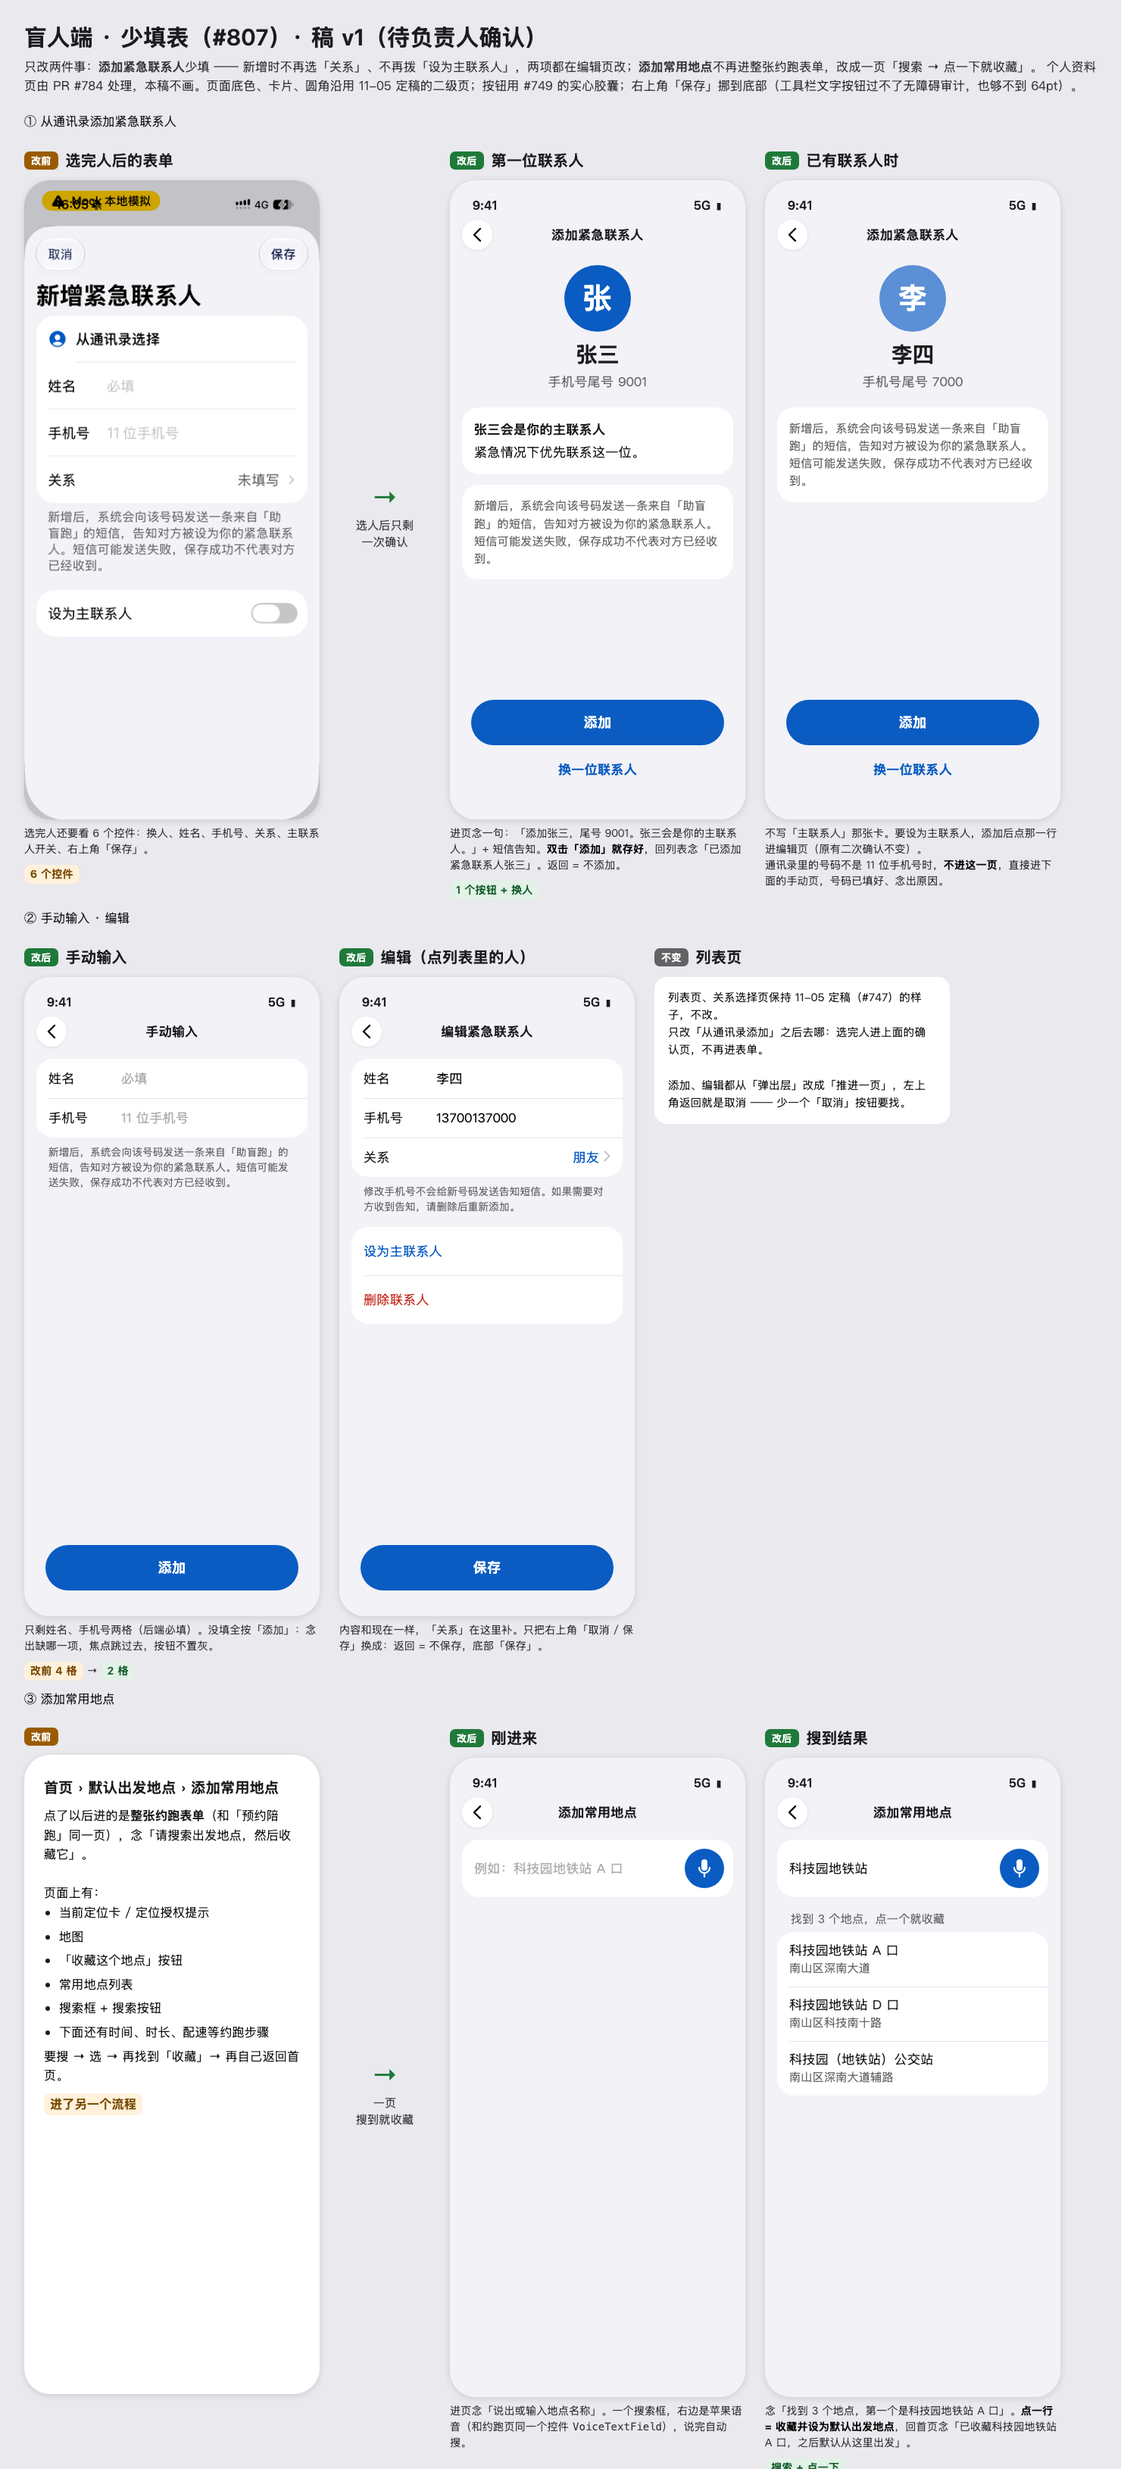
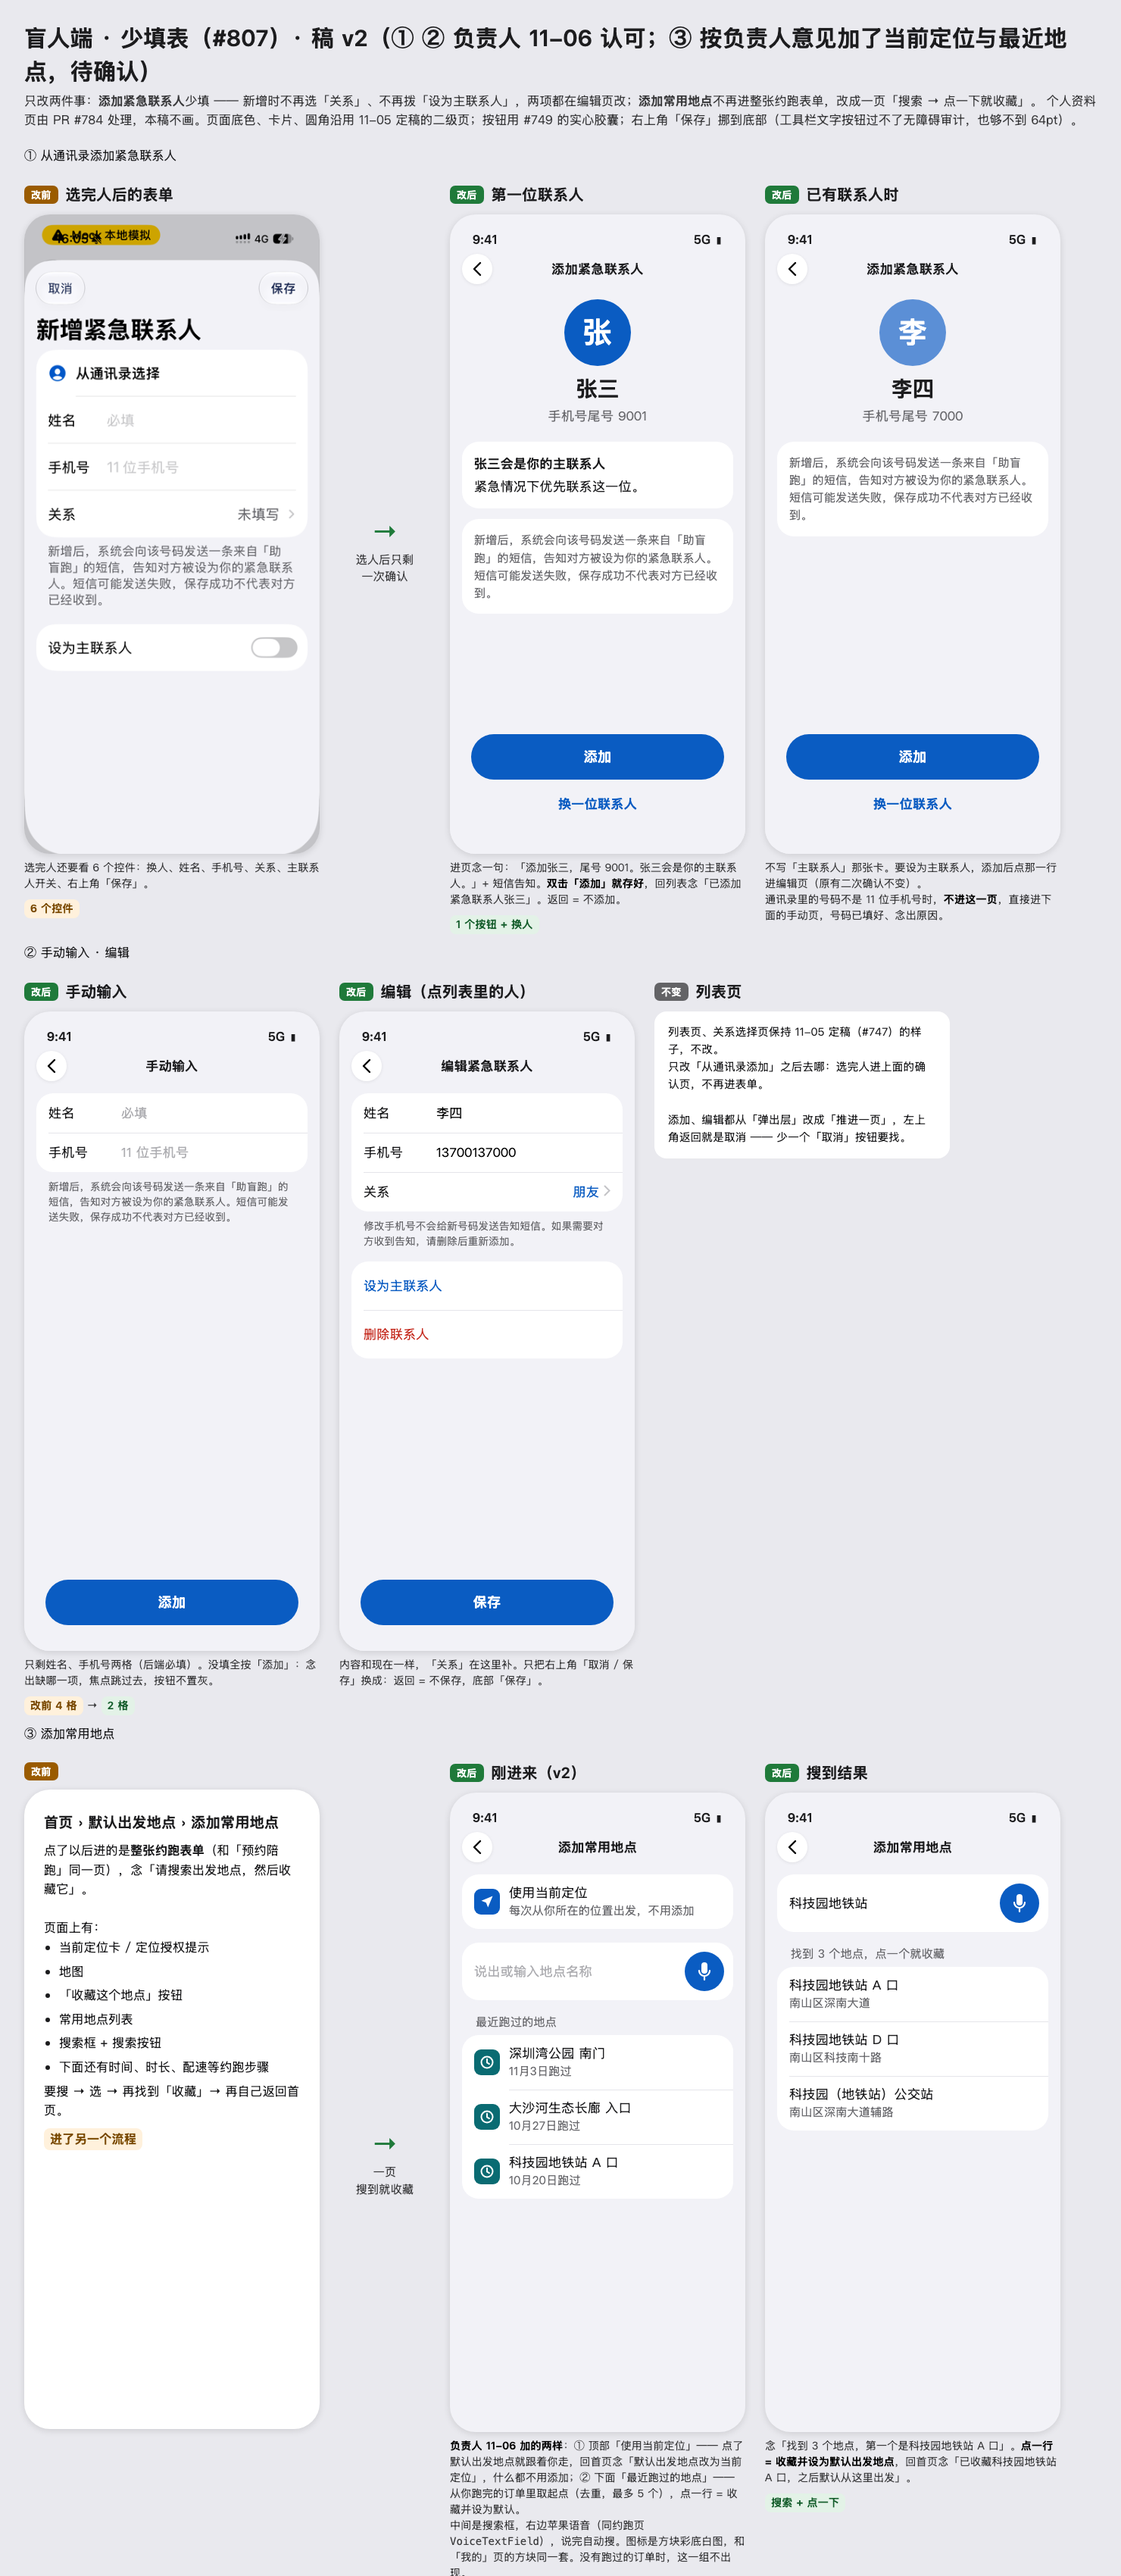
docs: 少填表模拟图 v2，添加常用地点加当前定位与最近跑过的地点（#807）

diff --git a/docs/ui/mockups/blind-fewer-forms-20261106/draft.html b/docs/ui/mockups/blind-fewer-forms-20261106/draft.html
@@ -21,7 +21,7 @@
 .cnt.ok{background:#E3F2E7;color:#155E2C}
 .toast{position:absolute;left:16px;right:16px;top:540px;background:#E3F2E7;color:#155E2C;border-radius:16px;padding:14px 16px;font-size:16px;line-height:1.45}
 </style></head><body>
-<h1>盲人端 · 少填表（#807）· 稿 v1（待负责人确认）</h1>
+<h1>盲人端 · 少填表（#807）· 稿 v2（① ② 负责人 11-06 认可；③ 按负责人意见加了当前定位与最近地点，待确认）</h1>
 <div class="lead">只改两件事：<b>添加紧急联系人</b>少填 —— 新增时不再选「关系」、不再拨「设为主联系人」，两项都在编辑页改；<b>添加常用地点</b>不再进整张约跑表单，改成一页「搜索 → 点一下就收藏」。
 个人资料页由 PR #784 处理，本稿不画。页面底色、卡片、圆角沿用 11-05 定稿的二级页；按钮用 #749 的实心胶囊；右上角「保存」挪到底部（工具栏文字按钮过不了无障碍审计，也够不到 64pt）。</div>
 
@@ -84,13 +84,20 @@
   <div class="before"><h3>首页 › 默认出发地点 › 添加常用地点</h3>点了以后进的是<b>整张约跑表单</b>（和「预约陪跑」同一页），念「请搜索出发地点，然后收藏它」。<br><br>页面上有：<ul><li>当前定位卡 / 定位授权提示</li><li>地图</li><li>「收藏这个地点」按钮</li><li>常用地点列表</li><li>搜索框 + 搜索按钮</li><li>下面还有时间、时长、配速等约跑步骤</li></ul>要搜 → 选 → 再找到「收藏」→ 再自己返回首页。<br><span class="cnt">进了另一个流程</span></div>
  </div>
  <div class="arrow"><span class="ar">→</span>一页<br>搜到就收藏</div>
- <div class="col"><div class="rowtitle"><span class="tag t-new">改后</span>刚进来</div>
+ <div class="col"><div class="rowtitle"><span class="tag t-new">改后</span>刚进来（v2）</div>
   <div class="phone"><div class="status"><span>9:41</span><span>5G ▮</span></div>
    <div class="navc"><div class="navbtn" data-i="back"></div><div class="t">添加常用地点</div></div>
    <div style="height:14px"></div>
-   <div class="search"><span class="ph">例如：科技园地铁站 A 口</span><span class="mic" data-i="micw"></span></div>
+   <div class="group"><div class="rowi tall"><span class="icsq" style="background:#0A5CC2" data-i="loc"></span><div class="rt2"><div class="a">使用当前定位</div><div class="b">每次从你所在的位置出发，不用添加</div></div></div></div>
+   <div class="search"><span class="ph">说出或输入地点名称</span><span class="mic" data-i="micw"></span></div>
+   <div class="grouplabel">最近跑过的地点</div>
+   <div class="group">
+    <div class="rowi tall"><span class="icsq" style="background:#0A6B72" data-i="clock"></span><div class="rt2"><div class="a">深圳湾公园 南门</div><div class="b">11月3日跑过</div></div></div>
+    <div class="rowi tall"><span class="icsq" style="background:#0A6B72" data-i="clock"></span><div class="rt2"><div class="a">大沙河生态长廊 入口</div><div class="b">10月27日跑过</div></div></div>
+    <div class="rowi tall"><span class="icsq" style="background:#0A6B72" data-i="clock"></span><div class="rt2"><div class="a">科技园地铁站 A 口</div><div class="b">10月20日跑过</div></div></div>
+   </div>
   </div>
-  <div class="cap">进页念「说出或输入地点名称」。一个搜索框，右边是苹果语音（和约跑页同一个控件 <code>VoiceTextField</code>），说完自动搜。</div>
+  <div class="cap"><b>负责人 11-06 加的两样</b>：① 顶部「使用当前定位」—— 点了默认出发地点就跟着你走，回首页念「默认出发地点改为当前定位」，什么都不用添加；② 下面「最近跑过的地点」—— 从你跑完的订单里取起点（去重，最多 5 个），点一行 = 收藏并设为默认。<br>中间是搜索框，右边苹果语音（同约跑页 <code>VoiceTextField</code>），说完自动搜。图标是方块彩底白图，和「我的」页的方块同一套。没有跑过的订单时，这一组不出现。</div>
  </div>
  <div class="col"><div class="rowtitle"><span class="tag t-new">改后</span>搜到结果</div>
   <div class="phone"><div class="status"><span>9:41</span><span>5G ▮</span></div>
@@ -111,6 +118,8 @@
 const S={
 chev:'<svg class="chev" viewBox="0 0 9 15" style="margin-left:6px"><path d="M1.5 1.5l6 6-6 6" stroke="#C4C4C7" stroke-width="2" fill="none" stroke-linecap="round"/></svg>',
 back:'<svg width="12" height="20" viewBox="0 0 12 20"><path d="M10 2L2 10l8 8" stroke="#000" stroke-width="2.4" fill="none" stroke-linecap="round" stroke-linejoin="round"/></svg>',
+loc:'<svg width="20" height="20" viewBox="0 0 24 24"><path d="M21 3L3 10.5l7.5 3 3 7.5z" fill="#fff"/></svg>',
+clock:'<svg width="20" height="20" viewBox="0 0 24 24"><circle cx="12" cy="12" r="9" stroke="#fff" stroke-width="2.4" fill="none"/><path d="M12 7v5.5l3.5 2" stroke="#fff" stroke-width="2.4" fill="none" stroke-linecap="round"/></svg>',
 micw:'<svg width="18" height="26" viewBox="0 0 18 26"><rect x="5" y="1" width="8" height="15" rx="4" fill="#fff"/><path d="M2 12a7 7 0 0 0 14 0M9 19v5" stroke="#fff" stroke-width="2.2" fill="none" stroke-linecap="round"/></svg>'
 };
 document.querySelectorAll('[data-i]').forEach(e=>{e.innerHTML=S[e.dataset.i]+(e.innerHTML||'')});

diff --git a/docs/ui/mockups/INDEX.md b/docs/ui/mockups/INDEX.md
@@ -65,5 +65,5 @@ Claude Design 官方自认「没有版本历史」（[support.claude.com 原文]
 | 盲人端「隐私与授权」（拆两层：列表看状态 → 每项详情页撤回） | `blind-privacy-20261105/`（`privacy-final.png`） | Current | 取代一页摊开三项、每项一个撤回按钮的旧版式 | 负责人 2026-11-05，原话见 PR 描述（设计存档 `2026-11-05-blind-secondary-pages/final/DECISION.md` 第 6 条）；OpenSpec `split-blind-privacy-two-levels` | `PrivacyAuthorizationView.swift` `PrivacyConsentDetailView.swift` `PrivacyConsentRow.swift`，组件 `Shared/GroupedCardStyle.swift` `Shared/SettingsTileComponents.swift` | 未真机对照（负责人 11-05 定不跑测试，自己验）。有意偏差：视力那项图标底色用靛蓝而非紫色（`AppColors` 没有紫色）；第一层保留导航标题「隐私与授权」（UI 用例按它判进页）；稿只画了语音那一页，视力、位置两页照同一版式，视力撤回行叫「撤回视力状况和导盲犬的同意」；没有同意时「当前」组下多一句原有的补充说明 |
 | 全 App 主按钮与成套次要按钮（主 / 次 / 灰 / 不可用 / 危险 / 按下） | `buttons-20261105/`（`buttons-size-final.png` 尺寸定稿；`buttons-set-v1.png` 成套样式，其中 A 列为定稿方向） | Current | 取代 `design-direction.md` §4 旧的「全宽、64pt、圆角 12」主按钮 | `buttons-20261105/DECISION.md`（负责人 2026-11-05 选 A 实心胶囊 + 尺寸 ②）；调研 `docs/research/primary-button-restyle-20261105.md` | `ButtonChrome.swift`、`PrimaryButton.swift`、`BlindControls.swift`、`TrainingCapsuleButtonStyle` | 弹层「关闭」只改了举报与客服工单两处；`FlowActionButton`（黄色订单流程，含 `.ghost`）与 `BlindOrderStatusView` 里 7 处系统 `.bordered` 没换形状。未逐屏对照（实现截图见 PR #757） |
 | 两端共用 邀请好友 · 联系客服 + 我的工单 · 已拉黑的人 · 关于 | `blind-shared-pages-20261105/`（`invite-final.png` `support-final.png` `blocked-final.png` `about-final.png`） | Current | 取代四页旧样式（灰卡堆叠、一句话人数、整段规则、整宽「解除」按钮、名字版本两行列表），陪跑员端跟着变 | 负责人 2026-11-05，原话见 PR 描述；设计存档 `2026-11-05-blind-secondary-pages/final/DECISION.md` | `Shared/InviteCodeView.swift` `Shared/InviteCode.swift` `Shared/SupportTicketView.swift` `Shared/MySupportTicketsView.swift` `Shared/BlockedUsersView.swift` `Volunteer/AboutAidRunView.swift` `Core/AboutAppSections.swift` | 未做真机对照（负责人 2026-11-05 定：不跑测试，自己验）。有意偏差：邀请页警告正文沿用原句「对方必须在选择身份那一步……无法补填。」；没人用过邀请码时两行写「0 人」，组下加一行「还没有人使用你的邀请码。」；工单状态标签字用主文字色而非绿字（绿字压浅绿底约 4.1:1，不到 4.5:1）；拉黑时间沿用日期 + 时间；关于页查询行仍显示网址（通知要求网址在编号下方），「隐私政策」「用户协议」两行样式没改（`LegalDocumentsView.swift` 不在本次范围） |
-| 盲人端 少填表：从通讯录添加紧急联系人（选人后一页确认）、手动输入两格、编辑页按钮挪底部、添加常用地点独立一页 | `blind-fewer-forms-20261106/`（`draft.html` + `draft.png`，`before-add-form.png` 是改前） | 待确认 | 若批准：取代 `EmergencyContactFormView` 新增态的四项表单与工具栏「取消 / 保存」；首页「添加常用地点」不再进约跑表单。列表页、关系选择页仍按 #747 | 负责人 2026-11-06 定的三条（#807 计划，AskUserQuestion：不碰资料页、新增时拿掉关系与主联系人、只改本 PR 碰到的页） | `EmergencyContactFormView.swift` `EmergencyContactsView.swift`，新文件 `EmergencyContactAddConfirmPage.swift` `BlindFavoritePlaceAddPage.swift`；`BlindRunnerHomeView.swift` 的 `.addFavoritePlace` | 未实现。未画：AX5、深色、搜索失败与无结果 |
+| 盲人端 少填表：从通讯录添加紧急联系人（选人后一页确认）、手动输入两格、编辑页按钮挪底部、添加常用地点独立一页（顶部「使用当前定位」+ 最近跑过的地点） | `blind-fewer-forms-20261106/`（`draft.html` + `draft.png`；`favorite-place-v2.png` 是常用地点 v2；`before-add-form.png` 是改前） | 待确认（紧急联系人 ①② 负责人 11-06 认可：选人与手动分开、去掉主联系人开关、保留短信说明；常用地点 v2 待确认） | 若批准：取代 `EmergencyContactFormView` 新增态的四项表单与工具栏「取消 / 保存」；首页「添加常用地点」不再进约跑表单。列表页、关系选择页仍按 #747 | 负责人 2026-11-06 定的三条（#807 计划，AskUserQuestion：不碰资料页、新增时拿掉关系与主联系人、只改本 PR 碰到的页） | `EmergencyContactFormView.swift` `EmergencyContactsView.swift`，新文件 `EmergencyContactAddConfirmPage.swift` `BlindFavoritePlaceAddPage.swift`；`BlindRunnerHomeView.swift` 的 `.addFavoritePlace` | 未实现。未画：AX5、深色、搜索失败与无结果 |
 | 盲人端「使用帮助」（四段四张卡） | `blind-help-20261105/`（`help-final.png`） | Current | 取代四段纯文字堆叠、标题带「第一，」序号的旧版式 | 负责人 2026-11-05，原话见 PR 描述；设计存档 `2026-11-05-blind-secondary-pages/final/DECISION.md` | `BlindRunner/BlindRunnerHelpView.swift`，组件 `Shared/GroupedCardStyle.swift` | 未做真机对照（负责人 2026-11-05 定：不跑测试，自己验）。有意偏差：第一张卡保留「开始时间要比现在晚 N 分钟以上」（稿上删了，但它不是重复的句子，删了用户会照引导下单然后被拒）；第三张卡保留「首页那个在『你好』这一行的右边」；第四张卡正文沿用原文；播报仍带「第一、第二……」序号和开头「欢迎使用助盲跑。」，卡片标题不带。底部按钮栏固定在屏幕底部，按钮样式以 #749 为准 |
